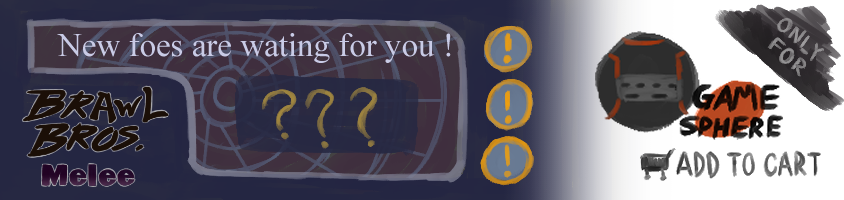
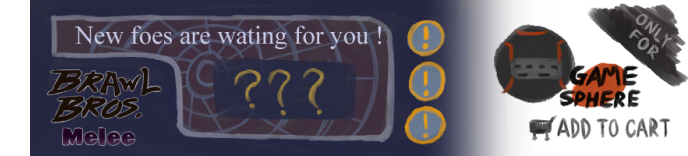
resized advertisements

diff --git a/home.html b/home.html
@@ -10,7 +10,7 @@
 		
 		<div class="grid-container-top">
 			<div class="item1"> <a href="https://wiredwormz.quest/home" alt="Site Logo" > <img src="homepage/logo.png"> </a>  </div>
-			<div class="item2"> <a href="https://wiredwormz.quest/warning" alt="Advertisement" title="CLICKHERECLICKHERECLICKHERE" > <img src="homepage/advert/doll.png" style= "margin-top: 30px" height= "156px" width="auto" > </a> </div>
+			<div class="item2"> <a href="https://wiredwormz.quest/warning" alt="Advertisement" title="CLICKHERECLICKHERECLICKHERE" > <img src="homepage/advert/doll.png" > </a> </div>
 			<div class="item3"> <img src="homepage/acid.gif" style= "margin-top: 30px" /> </div>
 			<div class="item4"> <div class="scroll-left"> <p> 
 			Welcome in, Websurferz! You will never escape :) Isn't this oh so fun?
